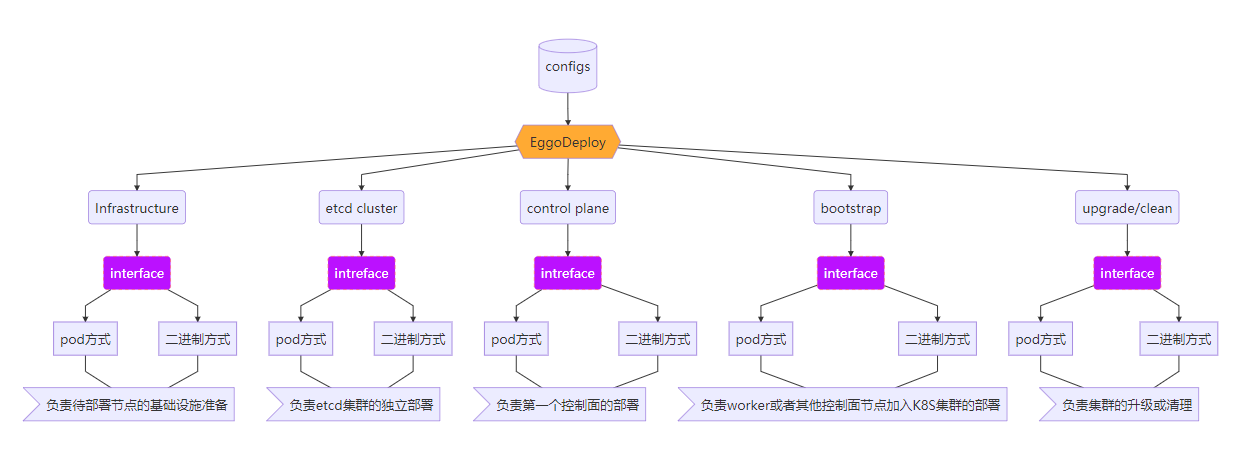
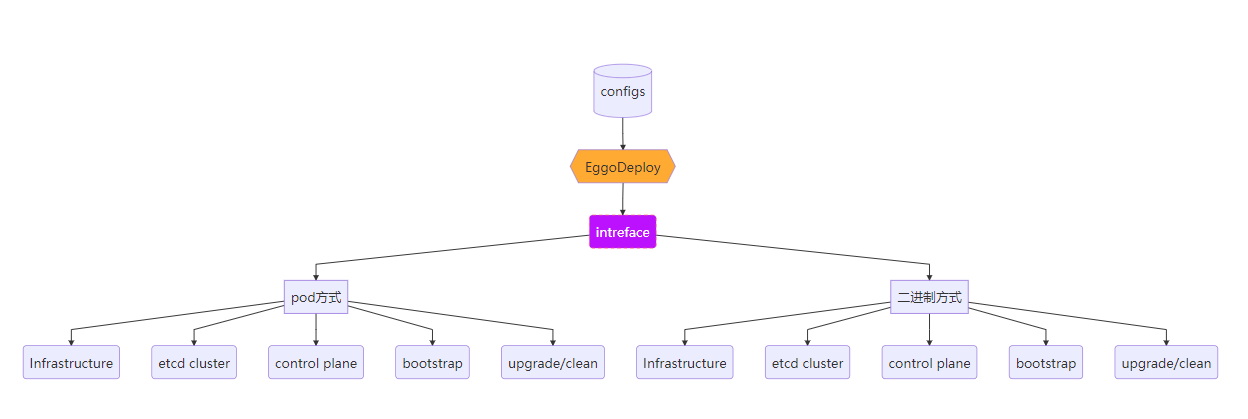
add structure of cluster deploy

diff --git a/pkg/clusterdeployment/types.go b/pkg/clusterdeployment/types.go
@@ -1,0 +1,66 @@
+/******************************************************************************
+ * Copyright (c) Huawei Technologies Co., Ltd. 2021. All rights reserved.
+ * eggo licensed under the Mulan PSL v2.
+ * You can use this software according to the terms and conditions of the Mulan PSL v2.
+ * You may obtain a copy of Mulan PSL v2 at:
+ *     http://license.coscl.org.cn/MulanPSL2
+ * THIS SOFTWARE IS PROVIDED ON AN "AS IS" BASIS, WITHOUT WARRANTIES OF ANY KIND, EITHER EXPRESS OR
+ * IMPLIED, INCLUDING BUT NOT LIMITED TO NON-INFRINGEMENT, MERCHANTABILITY OR FIT FOR A PARTICULAR
+ * PURPOSE.
+ * See the Mulan PSL v2 for more details.
+ * Author: haozi007
+ * Create: 2021-05-11
+ * Description: cluster deploy types
+ ******************************************************************************/
+
+package clusterdeployment
+
+type HostConfig struct {
+	Arch      string   `json:"arch"`
+	Name      string   `json:"name"`
+	IP        string   `json:"ip"`
+	ExtraIPs  []string `json:"extra-ips"`
+	Port      int      `json:"port"`
+	OpenPorts []int    `json:"open-ports"`
+	UserName  string   `json:"username"`
+	Password  string   `json:"password"`
+
+	Type int `json:"type"`
+
+	Lables map[string]string `json:"lables"`
+}
+
+type ApiServer struct {
+	Sans      []string          `json: "sans,omitempty"`
+	Timeout   string            `json: "timeout,omitempty"`
+	ExtraArgs map[string]string `json: "extra-args,omitempty"`
+}
+
+type ControlManager struct {
+	ExtraArgs map[string]string `json: "extra-args,omitempty"`
+}
+
+type Scheduler struct {
+	ExtraArgs map[string]string `json: "extra-args,omitempty"`
+}
+
+type ControlPlaneConfig struct {
+	ApiConf       *ApiServer      `json: "apiconf,omitempty"`
+	ManagerConf   *ControlManager `json: "managerconf,omitempty"`
+	SchedulerConf *Scheduler      `json: "schedulerconf,omitempty"`
+}
+
+type ClusterConfig struct {
+	ControlPlane *ControlPlaneConfig `json: "controlplane,omitempty"`
+	Nodes        []HostConfig        `json:"nodes,omitempty"`
+	// TODO: add other configurations at here
+}
+
+type ClusterDeploymentAPI interface {
+	PrepareInfrastructure() error
+	DeployEtcdCluster() error
+	InitControlPlane() error
+	JoinBootstrap() error
+	UpgradeCluster() error
+	CleanupCluster() error
+}

diff --git a/pkg/clusterdeployment/binary/binary.go b/pkg/clusterdeployment/binary/binary.go
@@ -1,0 +1,72 @@
+/******************************************************************************
+ * Copyright (c) Huawei Technologies Co., Ltd. 2021. All rights reserved.
+ * eggo licensed under the Mulan PSL v2.
+ * You can use this software according to the terms and conditions of the Mulan PSL v2.
+ * You may obtain a copy of Mulan PSL v2 at:
+ *     http://license.coscl.org.cn/MulanPSL2
+ * THIS SOFTWARE IS PROVIDED ON AN "AS IS" BASIS, WITHOUT WARRANTIES OF ANY KIND, EITHER EXPRESS OR
+ * IMPLIED, INCLUDING BUT NOT LIMITED TO NON-INFRINGEMENT, MERCHANTABILITY OR FIT FOR A PARTICULAR
+ * PURPOSE.
+ * See the Mulan PSL v2 for more details.
+ * Author: haozi007
+ * Create: 2021-05-11
+ * Description: eggo binary implement
+ ******************************************************************************/
+package binary
+
+import (
+	cp "gitee.com/openeuler/eggo/pkg/clusterdeployment"
+	"gitee.com/openeuler/eggo/pkg/clusterdeployment/binary/controlplane"
+
+	log "github.com/sirupsen/logrus"
+)
+
+const (
+	name = "binary driver"
+)
+
+func init() {
+	if err := cp.RegisterClusterDeploymentDriver(name, New); err != nil {
+		log.Fatal(err)
+	}
+}
+
+func New(conf *cp.ClusterConfig) (cp.ClusterDeploymentAPI, error) {
+	// TODO: finish binary implements
+	return &BinaryClusterDeployment{config: conf}, nil
+}
+
+type BinaryClusterDeployment struct {
+	config *cp.ClusterConfig
+}
+
+func (bcp *BinaryClusterDeployment) PrepareInfrastructure() error {
+	log.Info("do prepare infrastructure...")
+	return nil
+}
+
+func (bcp *BinaryClusterDeployment) DeployEtcdCluster() error {
+	log.Info("do deploy etcd cluster...")
+	return nil
+}
+
+func (bcp *BinaryClusterDeployment) InitControlPlane() error {
+	log.Info("do init control plane...")
+	controlplane.Init(bcp.config)
+	return nil
+}
+
+func (bcp *BinaryClusterDeployment) JoinBootstrap() error {
+	log.Info("do join new work or master...")
+	return nil
+}
+
+func (bcp *BinaryClusterDeployment) UpgradeCluster() error {
+	log.Info("do update cluster...")
+	return nil
+}
+
+func (bcp *BinaryClusterDeployment) CleanupCluster() error {
+	log.Info("do clean cluster...")
+	return nil
+}

diff --git a/pkg/clusterdeployment/clusterdeploy.go b/pkg/clusterdeployment/clusterdeploy.go
@@ -1,0 +1,62 @@
+/******************************************************************************
+ * Copyright (c) Huawei Technologies Co., Ltd. 2021. All rights reserved.
+ * eggo licensed under the Mulan PSL v2.
+ * You can use this software according to the terms and conditions of the Mulan PSL v2.
+ * You may obtain a copy of Mulan PSL v2 at:
+ *     http://license.coscl.org.cn/MulanPSL2
+ * THIS SOFTWARE IS PROVIDED ON AN "AS IS" BASIS, WITHOUT WARRANTIES OF ANY KIND, EITHER EXPRESS OR
+ * IMPLIED, INCLUDING BUT NOT LIMITED TO NON-INFRINGEMENT, MERCHANTABILITY OR FIT FOR A PARTICULAR
+ * PURPOSE.
+ * See the Mulan PSL v2 for more details.
+ * Author: haozi007
+ * Create: 2021-05-11
+ * Description: cluster deploy
+ ******************************************************************************/
+
+package clusterdeployment
+
+import (
+	"fmt"
+	"sync"
+)
+
+type ClusterDeploymentCreator func(*ClusterConfig) (ClusterDeploymentAPI, error)
+
+type clusterDeploymentFactory struct {
+	registry map[string]ClusterDeploymentCreator
+	m        sync.Mutex
+}
+
+func (df *clusterDeploymentFactory) register(name string, c ClusterDeploymentCreator) error {
+	df.m.Lock()
+	defer df.m.Unlock()
+	if _, ok := df.registry[name]; ok {
+		return fmt.Errorf("driver %s is already registered", name)
+	}
+	df.registry[name] = c
+	return nil
+}
+
+func (df *clusterDeploymentFactory) get(name string) (ClusterDeploymentCreator, error) {
+	df.m.Lock()
+	defer df.m.Unlock()
+	c, ok := df.registry[name]
+	if ok {
+		return c, nil
+	}
+	return nil, fmt.Errorf("driver %s cannot be found", name)
+}
+
+// global factory instance
+var factory = &clusterDeploymentFactory{registry: make(map[string]ClusterDeploymentCreator)}
+
+func RegisterClusterDeploymentDriver(name string, c ClusterDeploymentCreator) error {
+	if c == nil {
+		return fmt.Errorf("creator is nil")
+	}
+	return factory.register(name, c)
+}
+
+func GetClusterDeploymentDriver(name string) (ClusterDeploymentCreator, error) {
+	return factory.get(name)
+}

diff --git a/pkg/clusterdeployment/clusterdeploy_test.go b/pkg/clusterdeployment/clusterdeploy_test.go
@@ -1,0 +1,41 @@
+/******************************************************************************
+ * Copyright (c) Huawei Technologies Co., Ltd. 2021. All rights reserved.
+ * eggo licensed under the Mulan PSL v2.
+ * You can use this software according to the terms and conditions of the Mulan PSL v2.
+ * You may obtain a copy of Mulan PSL v2 at:
+ *     http://license.coscl.org.cn/MulanPSL2
+ * THIS SOFTWARE IS PROVIDED ON AN "AS IS" BASIS, WITHOUT WARRANTIES OF ANY KIND, EITHER EXPRESS OR
+ * IMPLIED, INCLUDING BUT NOT LIMITED TO NON-INFRINGEMENT, MERCHANTABILITY OR FIT FOR A PARTICULAR
+ * PURPOSE.
+ * See the Mulan PSL v2 for more details.
+ * Author: haozi007
+ * Create: 2021-05-11
+ * Description: cluster deploy test
+ ******************************************************************************/
+
+package clusterdeployment
+
+import (
+	"testing"
+)
+
+func TestRegisterControlPlaneDriver(t *testing.T) {
+	err := RegisterClusterDeploymentDriver("test", nil)
+	if err == nil {
+		t.Fatal("expect err is not nil")
+	}
+}
+
+func MyCreator(*ClusterConfig) (ClusterDeploymentAPI, error) {
+	return nil, nil
+}
+func TestGetControlPlaneDriver(t *testing.T) {
+	err := RegisterClusterDeploymentDriver("test", MyCreator)
+	if err != nil {
+		t.Fatal("expect err is nil")
+	}
+
+	if _, err = GetClusterDeploymentDriver("test"); err != nil {
+		t.Fatal("expect err is not nil")
+	}
+}

diff --git a/pkg/clusterdeployment/binary/controlplane/controlplane.go b/pkg/clusterdeployment/binary/controlplane/controlplane.go
@@ -1,0 +1,49 @@
+/******************************************************************************
+ * Copyright (c) Huawei Technologies Co., Ltd. 2021. All rights reserved.
+ * eggo licensed under the Mulan PSL v2.
+ * You can use this software according to the terms and conditions of the Mulan PSL v2.
+ * You may obtain a copy of Mulan PSL v2 at:
+ *     http://license.coscl.org.cn/MulanPSL2
+ * THIS SOFTWARE IS PROVIDED ON AN "AS IS" BASIS, WITHOUT WARRANTIES OF ANY KIND, EITHER EXPRESS OR
+ * IMPLIED, INCLUDING BUT NOT LIMITED TO NON-INFRINGEMENT, MERCHANTABILITY OR FIT FOR A PARTICULAR
+ * PURPOSE.
+ * See the Mulan PSL v2 for more details.
+ * Author: haozi007
+ * Create: 2021-05-11
+ * Description: eggo controlplane binary implement
+ ******************************************************************************/
+
+package controlplane
+
+import (
+	"gitee.com/openeuler/eggo/pkg/clusterdeployment"
+)
+
+func check() error {
+	return nil
+}
+
+func installDependences() error {
+	return nil
+}
+
+func generateCerts() error {
+	return nil
+}
+
+func generateKubeconfigs() error {
+	return nil
+}
+
+func runKubernetesServices() error {
+	return nil
+}
+
+func Init(conf *clusterdeployment.ClusterConfig) error {
+	check()
+	installDependences()
+	generateCerts()
+	generateKubeconfigs()
+	runKubernetesServices()
+	return nil
+}

diff --git a/docs/raw_general_design.md b/docs/raw_general_design.md
@@ -37,34 +37,22 @@ Eggo支持三种部署方式：
 ```mermaid
 graph TD
 	A[(configs)] --> B{{EggoDeploy}}
-	B --> C(Infrastructure)
-	B --> D(etcd cluster)
-	B --> E(control plane)
-	B --> F(bootstrap)
-	B --> G(upgrade/clean)
-	C --> CA(interface)
-	CA --> CB[pod方式]
-	CA --> CC[二进制方式]
-	CB & CC --- CD>负责待部署节点的基础设施准备]
-	D --> DA(intreface)
-	DA --> DB[pod方式]
-	DA --> DC[二进制方式]
-	DB & DC --- DD>负责etcd集群的独立部署]
-	E --> EA(intreface)
-	EA --> EB[pod方式]
-	EA --> EC[二进制方式]
-	EB & EC --- ED>负责第一个控制面的部署]
-	F --> FA(interface)
-	FA --> FB[pod方式]
-	FA --> FC[二进制方式]
-	FB & FC --- FD>负责worker或者其他控制面节点加入K8S集群的部署]
-	G --> GA(interface)
-	GA --> GB[pod方式]
-	GA --> GC[二进制方式]
-	GB & GC --- GD>负责集群的升级或清理]
+	B --> C(intreface)
+	C --> D[pod方式]
+	C --> E[二进制方式]
+	D --> DA(Infrastructure)
+	D --> DB(etcd cluster)
+	D --> DC(control plane)
+	D --> DD(bootstrap)
+	D --> DE(upgrade/clean)
+	E --> EA(Infrastructure)
+	E --> EB(etcd cluster)
+	E --> EC(control plane)
+	E --> ED(bootstrap)
+	E --> EE(upgrade/clean)
 	style B fill:#fa3
 	classDef interfacestyle fill:#b1f,stroke:#f66,stroke-width:1px,color:#fff,stroke-dasharray:5 5
-	class CA,DA,EA,FA,GA interfacestyle
+	class C interfacestyle
 ```
 
 部署组件负责集群的实际部署工作，主要包括如下部分：
